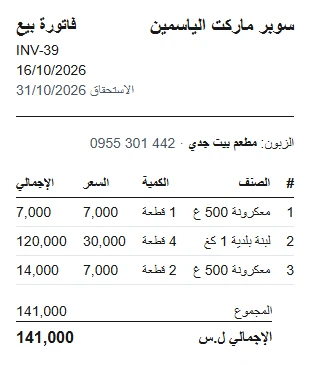
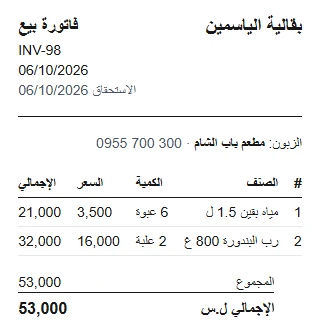
Landing page: phone app, made-to-order, backups; fresh desktop and phone screenshots

diff --git a/index.html b/index.html
@@ -4,21 +4,21 @@
 <meta charset="utf-8">
 <meta name="viewport" content="width=device-width, initial-scale=1">
 <title>سيرو: برنامج مجاني لإدارة المحل</title>
-<meta name="description" content="سيرو برنامج مجاني لإدارة المحل والشركة على ويندوز: مبيعات ونقطة بيع، مخزون، مشتريات، محاسبة وتقارير. يعمل بلا إنترنت وبياناتك تبقى عندك.">
+<meta name="description" content="سيرو برنامج مجاني لإدارة المحل والشركة على ويندوز وأندرويد: مبيعات ونقطة بيع، مخزون، مشتريات، محاسبة وتقارير. يعمل بلا إنترنت وبياناتك تبقى عندك.">
 <link rel="canonical" href="https://anasshabrah.github.io/siro-releases/">
 <meta property="og:type" content="website">
 <meta property="og:site_name" content="سيرو">
 <meta property="og:locale" content="ar_AR">
 <meta property="og:url" content="https://anasshabrah.github.io/siro-releases/">
 <meta property="og:title" content="سيرو: برنامج المحل كله، مجاناً">
-<meta property="og:description" content="مبيعات ومخزون ومحاسبة ونقطة بيع على ويندوز. يعمل بلا إنترنت، مجاني بالكامل.">
+<meta property="og:description" content="مبيعات ومخزون ومحاسبة ونقطة بيع على ويندوز وأندرويد. يعمل بلا إنترنت، مجاني بالكامل.">
 <meta property="og:image" content="https://anasshabrah.github.io/siro-releases/og.png">
 <meta property="og:image:width" content="1200">
 <meta property="og:image:height" content="630">
 <meta property="og:image:alt" content="فاتورة سيرو: كل أقسام البرنامج بصفر ليرة، مختومة بكلمة مجاني">
 <meta name="twitter:card" content="summary_large_image">
 <meta name="twitter:title" content="سيرو: برنامج المحل كله، مجاناً">
-<meta name="twitter:description" content="مبيعات ومخزون ومحاسبة ونقطة بيع على ويندوز. يعمل بلا إنترنت، مجاني بالكامل.">
+<meta name="twitter:description" content="مبيعات ومخزون ومحاسبة ونقطة بيع على ويندوز وأندرويد. يعمل بلا إنترنت، مجاني بالكامل.">
 <meta name="twitter:image" content="https://anasshabrah.github.io/siro-releases/og.png">
 <meta name="theme-color" content="#2f5d3a">
 <link rel="icon" href="favicon.ico" sizes="any">
@@ -69,8 +69,10 @@
   .btn svg { width: 22px; height: 22px; flex: none; }
   .meta { font-size: 15px; color: var(--muted); }
   .meta span[dir] { unicode-bidi: isolate; }
-  .alt { flex-basis: 100%; font-size: 17px; color: var(--muted); }
-  .alt a { color: var(--olive); font-weight: 600; }
+  .btn.ghost { background: var(--paper); color: var(--olive-deep); box-shadow: 0 6px 0 var(--line); border: 2px solid var(--olive); padding: 14px 26px; }
+  .btn.ghost:hover { background: #f6f9f6; }
+  .btn.ghost:active { box-shadow: 0 2px 0 var(--line); }
+  .meta { flex-basis: 100%; }
 
   /* the receipt: the one loud thing on the page */
   .receipt-stage { position: relative; display: flex; justify-content: center; }
@@ -101,6 +103,13 @@
   .gallery .main { grid-column: 1 / -1; }
   .gallery .inv img { max-width: 310px; }
   figcaption { font-size: 15px; color: var(--muted); margin-top: 8px; }
+  h3 { font-family: "Reem Kufi", "IBM Plex Sans Arabic", sans-serif; font-size: 24px; margin: 0 0 6px; }
+  .sub { color: var(--muted); font-size: 16px; margin-bottom: 22px; max-width: 60ch; }
+  .device > h3 + .gallery { margin-top: 16px; }
+  .device + .device { margin-top: 56px; }
+  .phones { display: grid; grid-template-columns: repeat(4, 1fr); gap: 22px; }
+  .phones img { border-radius: 26px; border: 6px solid var(--ink); background: #fff; box-shadow: 0 14px 30px rgba(22, 32, 27, .12); }
+  .phones figcaption { text-align: center; }
 
   .inside { display: grid; grid-template-columns: repeat(2, 1fr); gap: 0 48px; margin: 0; }
   .inside div { padding: 18px 0; border-bottom: 1px solid var(--line); }
@@ -134,6 +143,7 @@
     .gallery { grid-template-columns: 1fr; }
     .gallery .main { grid-row: auto; }
     .inside { grid-template-columns: 1fr; }
+    .phones { grid-template-columns: repeat(2, 1fr); gap: 18px; }
     .top nav { display: none; }
   }
   @media (prefers-reduced-motion: reduce) { .receipt, .stamp { animation: none; } }
@@ -142,21 +152,24 @@
 <body>
   <header class="wrap top">
     <a class="brand" href="./"><img src="img/apple-touch-icon.png" alt="">سيرو</a>
-    <nav aria-label="روابط الصفحة"><a href="#shots">الصور</a><a href="#install">التثبيت</a><a href="#contact">تواصل</a></nav>
+    <nav aria-label="روابط الصفحة"><a href="#shots">الصور</a><a href="#inside">ما فيه</a><a href="#install">التثبيت</a><a href="#contact">تواصل</a></nav>
   </header>
 
   <main>
     <div class="wrap hero">
       <div>
         <h1>برنامج المحل كله، مجاناً.</h1>
-        <p class="lead">بيع ونقطة بيع، مخزون ومشتريات، محاسبة وتقارير. يعمل على ويندوز بلا إنترنت، وبياناتك تبقى على جهازك.</p>
+        <p class="lead">بيع ونقطة بيع، مخزون ومشتريات، محاسبة وتقارير. على الكمبيوتر وعلى الجوال، بلا إنترنت، وبياناتك تبقى عندك.</p>
         <div class="cta">
           <a class="btn" id="download" href="https://github.com/anasshabrah/siro-releases/releases/latest/download/Siro-Setup.exe">
             <svg viewBox="0 0 24 24" fill="none" stroke="currentColor" stroke-width="2.2" stroke-linecap="round" stroke-linejoin="round" aria-hidden="true"><path d="M12 3v12m0 0-5-5m5 5 5-5M4 19h16"/></svg>
-            نزّل سيرو لويندوز
+            نزّل لويندوز
           </a>
-          <p class="meta" id="meta">ويندوز 10 أو 11 · نحو 120 ميغابايت</p>
-          <p class="alt">للجوال والتابلت: <a href="https://github.com/anasshabrah/siro-releases/releases/download/android/Siro-Android.apk">نزّل تطبيق أندرويد</a> · <span dir="ltr">50 MB</span></p>
+          <a class="btn ghost" href="https://github.com/anasshabrah/siro-releases/releases/download/android/Siro-Android.apk">
+            <svg viewBox="0 0 24 24" fill="none" stroke="currentColor" stroke-width="2.2" stroke-linecap="round" stroke-linejoin="round" aria-hidden="true"><rect x="6" y="2.5" width="12" height="19" rx="2.5"/><path d="M11 18.5h2"/></svg>
+            نزّل لأندرويد
+          </a>
+          <p class="meta" id="meta">ويندوز 10 أو 11 · نحو 120 ميغابايت · أندرويد: <span dir="ltr">52 MB</span></p>
         </div>
       </div>
 
@@ -169,7 +182,8 @@
           <div class="r-row">المشتريات والموردون<i></i><em>0</em></div>
           <div class="r-row">الزبائن والديون<i></i><em>0</em></div>
           <div class="r-row">المحاسبة والتقارير<i></i><em>0</em></div>
-          <div class="r-row">الفروع والمزامنة<i></i><em>0</em></div>
+          <div class="r-row">العمل حسب الطلب<i></i><em>0</em></div>
+          <div class="r-row">تطبيق الجوال<i></i><em>0</em></div>
           <div class="r-total"><span>الإجمالي</span><span>0 ل.س</span></div>
           <p class="r-foot">شكراً لاختياركم سيرو</p>
           <div class="stamp">مجاني</div>
@@ -180,11 +194,24 @@
     <section class="shots" id="shots">
       <div class="wrap">
         <h2>هكذا يبدو من الداخل</h2>
-        <p class="intro">لقطات حقيقية من محل تجريبي. الواجهة بالعربية أولاً، وفيها الإنجليزية والوضع الداكن.</p>
-        <div class="gallery">
-          <figure class="main"><img src="img/dashboard.webp" width="1280" height="800" loading="lazy" alt="لوحة المحل: المبيعات والربح والنقدية والديون والأكثر مبيعاً لهذا الشهر"><figcaption>لوحة المحل: المبيعات والربح والنقدية وما لك وما عليك، بنظرة واحدة.</figcaption></figure>
-          <figure><img src="img/pos.webp" width="1280" height="800" loading="lazy" alt="شاشة نقطة البيع مع أصناف وفاتورة مفتوحة"><figcaption>نقطة البيع: باركود، ميزان، درج نقود، ووردية كاشير.</figcaption></figure>
-          <figure class="inv"><img src="img/invoice.webp" width="310" height="365" loading="lazy" alt="فاتورة بيع مطبوعة باسم المحل"><figcaption>فواتير تُطبع باسم محلك أو تُرسل كنص.</figcaption></figure>
+        <p class="intro">لقطات حقيقية من بقالية تجريبية، بالعربية أولاً. فيه الإنجليزية والوضع الداكن أيضاً.</p>
+        <div class="device">
+          <h3>على الكمبيوتر</h3>
+          <div class="gallery">
+            <figure class="main"><img src="img/dashboard.webp" width="1280" height="800" loading="lazy" alt="لوحة المحل: المبيعات والربح والنقدية وما لنا وما علينا والأكثر مبيعاً لهذا الشهر"><figcaption>لوحة المحل: المبيعات والربح والنقدية وما لك وما عليك، بنظرة واحدة.</figcaption></figure>
+            <figure><img src="img/pos.webp" width="1280" height="800" loading="lazy" alt="نقطة البيع: أصناف بأسعارها وفاتورة مفتوحة"><figcaption>نقطة البيع: باركود، ميزان، درج نقود، ووردية كاشير.</figcaption></figure>
+            <figure class="inv"><img src="img/invoice.webp" width="320" height="330" loading="lazy" alt="فاتورة بيع مطبوعة باسم المحل"><figcaption>فواتير تُطبع باسم محلك أو تُرسل كنص.</figcaption></figure>
+          </div>
+        </div>
+        <div class="device">
+          <h3>على الجوال</h3>
+          <p class="sub">دفاتر محل كاملة على أندرويد بلا كمبيوتر، أو جهاز للمندوب يتزامن مع كمبيوتر الشركة.</p>
+          <div class="phones">
+            <figure><img src="img/phone-home.webp" width="540" height="1110" loading="lazy" alt="الشاشة الرئيسية للتطبيق: فاتورة بيع، بيع بالكاميرا، وأقسام المحل"><figcaption>كل شيء من شاشة واحدة</figcaption></figure>
+            <figure><img src="img/phone-invoice.webp" width="540" height="1110" loading="lazy" alt="فاتورة بيع على الجوال بثلاثة أصناف لزبون"><figcaption>فاتورة نقدي أو آجل</figcaption></figure>
+            <figure><img src="img/phone-statement.webp" width="540" height="1110" loading="lazy" alt="كشف حساب زبون بالحركات والرصيد"><figcaption>كشف حساب يُرسل للزبون</figcaption></figure>
+            <figure><img src="img/phone-profit.webp" width="540" height="1110" loading="lazy" alt="الأرباح والخسائر لهذا الشهر"><figcaption>ربحك هذا الشهر</figcaption></figure>
+          </div>
         </div>
       </div>
     </section>
@@ -193,14 +220,14 @@
       <div class="wrap">
         <h2>ما الذي فيه</h2>
         <dl class="inside">
-          <div><dt>البيع ونقطة البيع</dt><dd>فواتير، عروض أسعار، مرتجعات، خصومات وعروض، ونقطة بيع سريعة بالباركود.</dd></div>
-          <div><dt>المخزون</dt><dd>عدة مستودعات، جرد فعلي، تواريخ انتهاء، واقتراحات شراء حين ينقص صنف.</dd></div>
-          <div><dt>المشتريات والموردون</dt><dd>فواتير شراء، طلبات شراء، وما عليك لكل مورد ومتى يستحق.</dd></div>
-          <div><dt>الزبائن والديون</dt><dd>كشف حساب لكل زبون، سقف للدين، وتذكير تلقائي بالفواتير المتأخرة.</dd></div>
-          <div><dt>المحاسبة</dt><dd>كل عملية تُقيَّد وحدها: ميزان مراجعة، ضرائب، بنك، وعملات أجنبية.</dd></div>
-          <div><dt>التقارير</dt><dd>منشئ تقارير، تصدير إلى Excel، واسأل البرنامج بالعربية عن أرقامك.</dd></div>
-          <div><dt>الفروع والأجهزة</dt><dd>كل فرع يعمل وحده بلا إنترنت، ويتزامن مع المركز حين يتصل.</dd></div>
-          <div><dt>الأمان</dt><dd>مستخدمون بصلاحيات، تحقق بخطوتين، ونسخ احتياطي مشفّر كل يوم.</dd></div>
+          <div><dt>البيع ونقطة البيع</dt><dd>فواتير، عروض أسعار، مرتجعات، خصومات، ونقطة بيع سريعة بالباركود.</dd></div>
+          <div><dt>المخزون</dt><dd>عدة مستودعات، جرد، تواريخ انتهاء، واقتراحات شراء حين ينقص صنف.</dd></div>
+          <div><dt>المشتريات والموردون</dt><dd>شراء بالليرة أو الدولار، وما عليك لكل مورد ومتى يستحق.</dd></div>
+          <div><dt>الزبائن والديون</dt><dd>كشف حساب لكل زبون، سقف للدين، وتذكير بالفواتير المتأخرة.</dd></div>
+          <div><dt>العمل حسب الطلب والتصنيع</dt><dd>للخياط والورشة: فاتورة بوصف العمل والمواد المستعملة. ووصفات، تجميع وتفكيك.</dd></div>
+          <div><dt>المحاسبة والتقارير</dt><dd>كل عملية تُقيَّد وحدها: أرباح وخسائر، ميزان مراجعة، تقارير، واسأل البرنامج بالعربية.</dd></div>
+          <div><dt>الجوال والفروع</dt><dd>التطبيق يعمل وحده لمحل صغير، أو كفرع ومندوب يتزامن مع المركز حين يتصل.</dd></div>
+          <div><dt>الأمان والنسخ الاحتياطي</dt><dd>صلاحيات، تحقق بخطوتين، قفل للتطبيق، ونسخ مشفّرة تنتقل بين الجوال والكمبيوتر.</dd></div>
         </dl>
       </div>
     </section>
@@ -213,8 +240,8 @@
           <li><b>إذا ظهرت رسالة «حمى Windows جهاز الكمبيوتر»</b><p>اضغط «مزيد من المعلومات» ثم «تشغيل على أي حال». تظهر لأن البرنامج جديد وغير موقّع بعد.</p></li>
           <li><b>اكتب اسم محلك ونوع نشاطك</b><p>يجهّز البرنامج الأقسام المناسبة لك: بقالية، مطعم، جملة، ورشة أو مكتب خدمات.</p></li>
         </ol>
-        <p class="note">على أندرويد: نزّل التطبيق من الرابط أعلى الصفحة وافتح الملف. إذا طلب الجوال السماح بالتثبيت من هذا المصدر فاسمح به مرة واحدة. يعمل التطبيق وحده لمحل صغير، أو يتصل بجهاز المحل ليستعمله المندوب في السيارة.</p>
-        <p class="note">التحديثات تصل وحدها حين يتصل الجهاز بالإنترنت، ويُؤخذ نسخة من بياناتك قبل كل تحديث.</p>
+        <p class="note">على أندرويد: نزّل التطبيق وافتح الملف. إذا طلب الجوال السماح بالتثبيت من هذا المصدر فاسمح به مرة واحدة.</p>
+        <p class="note">التحديثات تصل وحدها حين يتصل الجهاز بالإنترنت، وتُؤخذ نسخة من بياناتك قبل كل تحديث.</p>
       </div>
     </section>
 
@@ -246,7 +273,7 @@
       if (v) {
         document.getElementById("version").textContent = "الإصدار " + v;
         const mb = exe ? Math.round(exe.size / 1048576) : 120;
-        document.getElementById("meta").innerHTML = 'ويندوز 10 أو 11 · <span dir="ltr">' + mb + " MB</span> · الإصدار " + v;
+        document.getElementById("meta").innerHTML = 'ويندوز 10 أو 11 · <span dir="ltr">' + mb + " MB</span> · الإصدار " + v + ' · أندرويد: <span dir="ltr">52 MB</span>';
       }
     })
     .catch(() => {});
